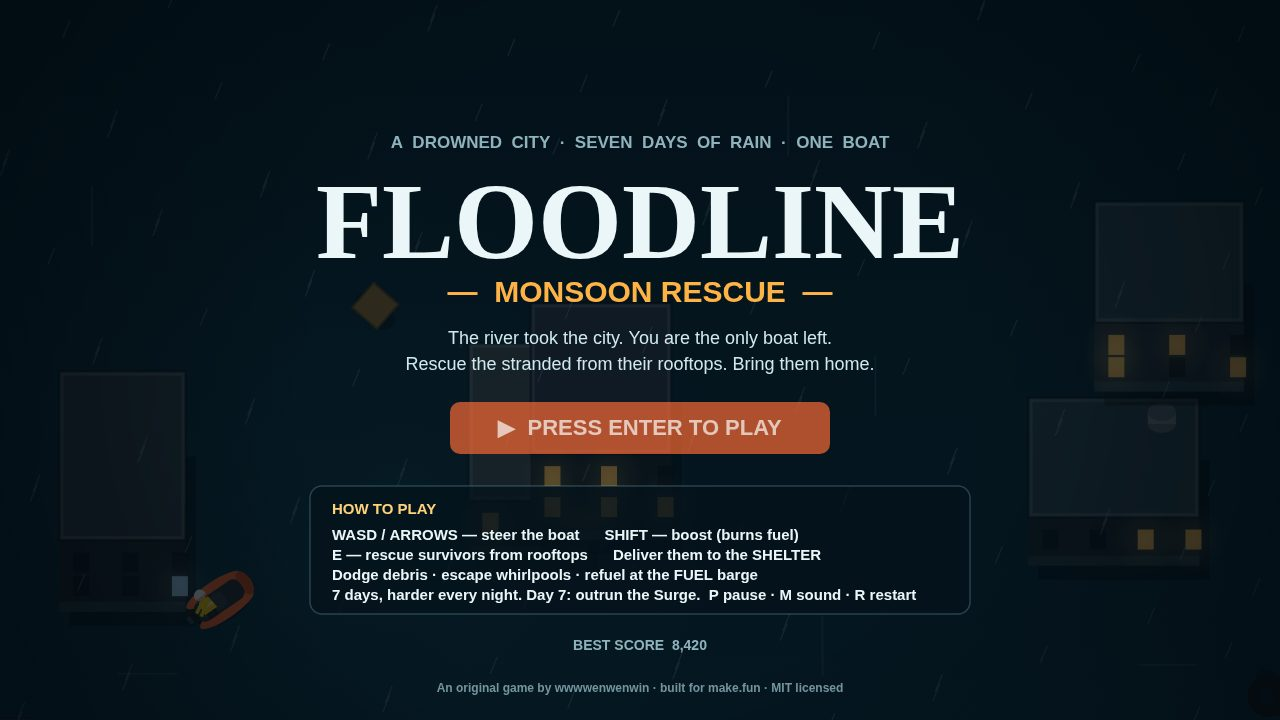
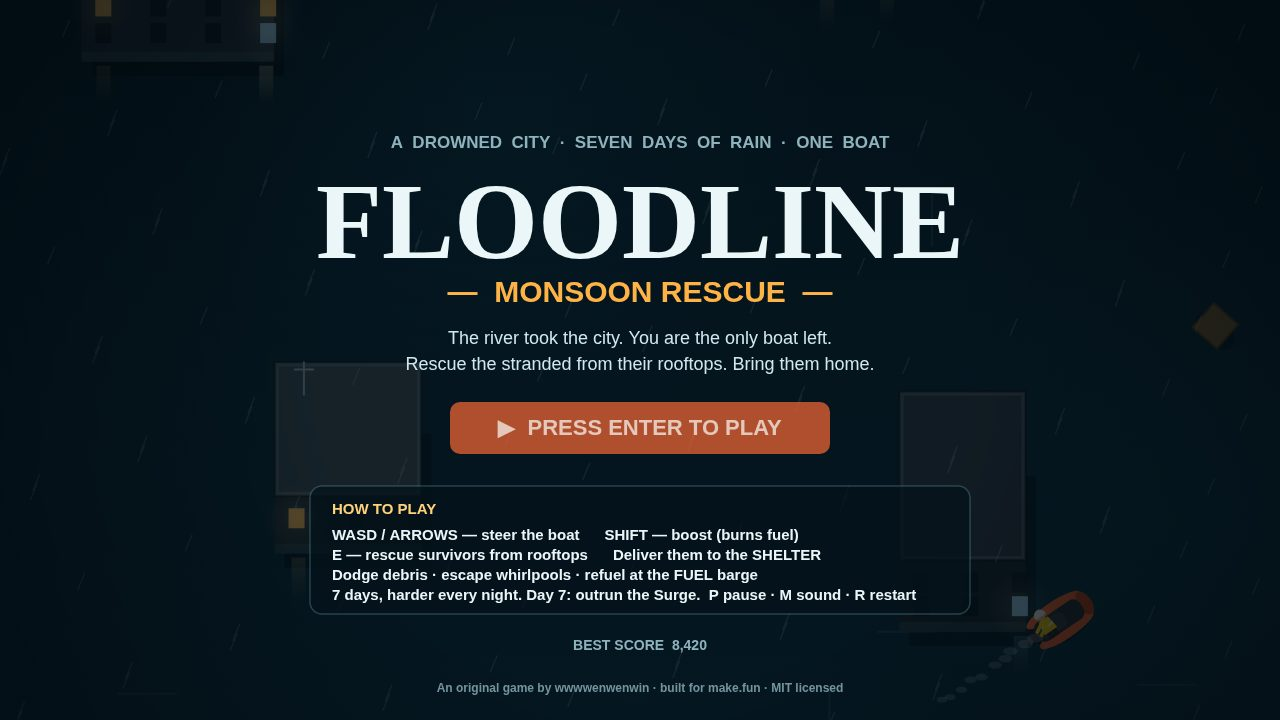
V2 polish: richer cover (fuel barge, forked lightning, 4th survivor, reflections), menacing Surge boss shot, upgrade shot replaces victory, tighter upgrade cards

diff --git a/game/src/shots.js b/game/src/shots.js
@@ -4,7 +4,7 @@
 // shots.json documents the same four shots. Physics is frozen for staged
 // shots (see main.js) while rain, light and particles keep animating.
 
-import { DAYS, VIEW } from './config.js';
+import { DAYS, UPGRADES, VIEW } from './config.js';
 import { generateWorld } from './world.js';
 import { makeBoat } from './boat.js';
 import { spawnSurvivors } from './survivors.js';
@@ -98,6 +98,15 @@ function placeBoatNearRoof(state) {
   addRoofSurvivor(state, stageA.x + stageA.w / 2 - 14, stageA.y + stageA.d - stageA.h - 18, '#4ecdc4', true, 0.7);
   addRoofSurvivor(state, stageA.x + stageA.w / 2 + 22, stageA.y + stageA.d - stageA.h - 18, '#ff8fa3', false, 2.4);
   addRoofSurvivor(state, stageB.x + stageB.w / 2, stageB.y + stageB.d - stageB.h - 18, '#ffd60a', true, 4.1);
+  // A fourth survivor with a flare on the lower building's roof, so the
+  // bottom-centre of the frame has people too.
+  addRoofSurvivor(state, stageC.x + stageC.w / 2 - 6, stageC.y + stageC.d - stageC.h - 18, '#ff6b35', true, 1.9);
+
+  // The fuel barge sails into the top-left of the frame: the cover then
+  // shows the game's whole economy — rescue, shelter AND refuel — at a
+  // glance. (Staging only; the real barge stays on the west side.)
+  state.world.fuelBarge.x = bx - 356;
+  state.world.fuelBarge.y = by - 270;
 
   // Action around the boat: drifting debris in the open water and a
   // whirlpool low-left, clear of the buildings and the minimap.
@@ -164,15 +173,34 @@ export function stageShot(state, shot, seed) {
   if (shot === 'start') {
     baseDayState(state, 1, seed);
     state.screen = 'title';
-    // The boat sits visible at the lower left, clear of the menu cards.
+    // The boat sits visible in the clear water at the lower right, clear of
+    // the menu cards, with a wake trailing behind it.
     state.boat.x = state.world.spawn.x;
     state.boat.y = state.world.spawn.y;
     state.boat.angle = -0.6;
-    state.camera.x = state.boat.x - 220;
-    state.camera.y = state.boat.y - 600;
+    state.camera.x = state.boat.x - 1060;
+    state.camera.y = state.boat.y - 620;
+    seedWake(state, 10);
     state.bestScore = 8420;
+  } else if (shot === 'upgrade') {
+    // The between-days choice: three upgrade cards over the flooded city.
+    // This is the shot that proves the game's depth — the player picks one
+    // upgrade that changes the next day, not just steering a boat.
+    baseDayState(state, 4, seed);
+    state.screen = 'upgrade';
+    state.score = 6420;
+    state.lastDayBonus = 740;
+    state.upgradeChoices = [UPGRADES[0], UPGRADES[1], UPGRADES[4]];
+    state.boat.hull = 82;
+    state.boat.maxHull = 100;
+    state.camera.x = state.boat.x - VIEW.W / 2;
+    state.camera.y = state.boat.y - VIEW.H / 2;
   } else if (shot === 'play') {
     baseDayState(state, 3, seed);
+    // The cover is the storm at its most dramatic: heavier rain than Day 3
+    // normally gets (a staging-only copy of the day config; the real Day 3
+    // is untouched).
+    state.dayCfg = { ...DAYS[2], rain: 0.85 };
     state.screen = 'play';
     state.score = 4850;
     state.dayDelivered = 4;
@@ -186,10 +214,15 @@ export function stageShot(state, shot, seed) {
     state.holdFlash = true;  // hold a lightning glow in the sky
     state.lightning.flash = 0.4;
     placeBoatNearRoof(state);
-    // Bolt lands in the open water left of the boat, clear of the roofs.
+    // Bolt lands in the open water left of the boat, clear of the roofs,
+    // with a fork branching off toward the fuel barge.
+    const boltX = state.boat.x - 226;
+    const boltY = state.boat.y - 139;
+    const segments = boltSegments(boltX, boltY);
     state.lightning.bolt = {
-      x: state.boat.x - 226, y: state.boat.y - 139, life: 99,
-      segments: boltSegments(state.boat.x - 226, state.boat.y - 139),
+      x: boltX, y: boltY, life: 99,
+      segments,
+      branches: [boltBranch(segments[2])],
     };
   } else if (shot === 'boss') {
     baseDayState(state, 7, seed);
@@ -215,10 +248,41 @@ export function stageShot(state, shot, seed) {
     state.boat.angle = 0.12;
     state.boat.vx = 0;
     state.boat.vy = 0;
+    // Guarantee a rescue is in reach: survivor spawns are random, so the
+    // "PRESS E TO RESCUE" prompt otherwise comes and goes between captures.
+    // Put one survivor on the roof nearest the boat.
+    let nearest = null;
+    let nearestD = Infinity;
+    for (const spot of state.world.roofSpots) {
+      const d = Math.hypot(spot.x - state.boat.x, spot.y - state.boat.y);
+      if (d < nearestD) { nearestD = d; nearest = spot; }
+    }
+    if (nearest && nearestD < 150) {
+      addRoofSurvivor(state, nearest.x, nearest.y, '#ff8fa3', false, 1.3);
+    }
     state.surge.active = true;
     state.surge.x = state.camera.x + 150;
     state.surge.speed = 0; // hold the wall in frame for the photo
     seedWake(state, 16);
+
+    // Fill the empty upper-middle of the frame: one more half-drowned block
+    // with people on its roof, directly in the Surge's path. Coordinates
+    // worked out against the Day 7 / seed 20261118 city: clear of the
+    // warning banner above and the rooftops below.
+    const stageD = makeStagedBuilding(state.camera.x + 480, state.camera.y + 200, 180, 140, 60, 53);
+    state.world.buildings.push(stageD);
+    addRoofSurvivor(state, stageD.x + stageD.w / 2 - 14, stageD.y + stageD.d - stageD.h - 18, '#ffd60a', true, 0.9);
+    addRoofSurvivor(state, stageD.x + stageD.w / 2 + 16, stageD.y + stageD.d - stageD.h - 18, '#4ecdc4', false, 3.0);
+
+    // Wreckage tumbling ahead of the wall: the Surge throws debris before it.
+    const kinds = ['log', 'crate', 'barrel', 'tyre'];
+    [[230, 180], [300, 300], [240, 420], [320, 520], [260, 620], [330, 240]]
+      .forEach(([sx, sy], i) => {
+        state.debris.push({
+          x: state.camera.x + sx, y: state.camera.y + sy, vx: 0, vy: 0,
+          angle: i * 1.1, spin: 0.3, size: 13 + (i % 3) * 3, kind: kinds[i % kinds.length],
+        });
+      });
   } else if (shot === 'end') {
     baseDayState(state, 7, seed);
     state.screen = 'victory';
@@ -239,6 +303,21 @@ function boltSegments(x, y) {
     cy += 28 + rng() * 30;
     cx += (rng() - 0.5) * 70;
     pts.push({ x: cx, y: Math.min(cy, y) });
+  }
+  return pts;
+}
+
+// A fork off a bolt's mid-point: three short segments reaching down-left,
+// so the cover's lightning reads as a branching strike, not a single line.
+function boltBranch(fork) {
+  const rng = makeRng(41);
+  const pts = [{ x: fork.x, y: fork.y }];
+  let cx = fork.x;
+  let cy = fork.y;
+  for (let i = 0; i < 3; i++) {
+    cy += 30 + rng() * 22;
+    cx -= 26 + rng() * 30;
+    pts.push({ x: cx, y: cy });
   }
   return pts;
 }

diff --git a/game/src/render.js b/game/src/render.js
@@ -480,12 +480,13 @@ function drawSurge(ctx, state) {
   const y0 = cam.y - 60;
   const y1 = cam.y + VIEW.H + 60;
   // Drowned ground behind the wall.
-  ctx.fillStyle = 'rgba(4, 20, 28, 0.55)';
+  ctx.fillStyle = 'rgba(2, 14, 20, 0.72)';
   ctx.fillRect(cam.x - 60, y0, x - cam.x + 60, y1 - y0);
   // The wall itself: a towering curl of water.
   const g = ctx.createLinearGradient(x - 200, 0, x + 40, 0);
-  g.addColorStop(0, 'rgba(6, 40, 54, 0.95)');
-  g.addColorStop(0.7, 'rgba(16, 78, 100, 0.98)');
+  g.addColorStop(0, 'rgba(3, 22, 32, 0.97)');
+  g.addColorStop(0.55, 'rgba(8, 48, 66, 0.98)');
+  g.addColorStop(0.8, 'rgba(16, 78, 100, 0.98)');
   g.addColorStop(1, 'rgba(210, 240, 248, 0.98)');
   ctx.fillStyle = g;
   ctx.beginPath();
@@ -498,6 +499,20 @@ function drawSurge(ctx, state) {
   ctx.lineTo(x - 200, y1);
   ctx.closePath();
   ctx.fill();
+  // Turbulence inside the wall: churning streaks rolling down its face.
+  ctx.save();
+  ctx.lineWidth = 5;
+  for (const [off, alpha, freq, speed] of [[-60, 0.20, 0.03, 1.0], [-115, 0.14, 0.045, 1.6], [-165, 0.10, 0.025, 0.7]]) {
+    ctx.strokeStyle = `rgba(150, 215, 230, ${alpha})`;
+    ctx.beginPath();
+    for (let y = y0; y <= y1; y += 30) {
+      const wob = Math.sin(y * freq + surge.crestPhase * speed) * 22;
+      if (y === y0) ctx.moveTo(x + off + wob, y);
+      else ctx.lineTo(x + off + wob, y);
+    }
+    ctx.stroke();
+  }
+  ctx.restore();
   // Foam crest.
   ctx.strokeStyle = 'rgba(230, 250, 255, 0.95)';
   ctx.lineWidth = 10;
@@ -518,9 +533,9 @@ function drawSurge(ctx, state) {
   }
   ctx.stroke();
   // Spray ahead of the wall.
-  for (let i = 0; i < 30; i++) {
+  for (let i = 0; i < 44; i++) {
     const sy = y0 + ((i * 197 + state.time * 90) % (y1 - y0));
-    const sx = x + 30 + ((i * 61) % 90);
+    const sx = x + 30 + ((i * 61) % 110);
     ctx.fillStyle = `rgba(220, 245, 252, ${0.25 + (i % 3) * 0.12})`;
     ctx.beginPath();
     ctx.arc(sx, sy, 2 + (i % 4), 0, Math.PI * 2);
@@ -697,6 +712,24 @@ function drawLights(ctx, state) {
       ctx.fillRect(wx - 34, wy - 34, 68, 68);
     }
   }
+  // Shimmering reflections of lit windows on the water below each wall:
+  // short vertical streaks that wobble with the flood, so the water reads
+  // as a living surface instead of flat dark paint.
+  for (const b of state.world.buildings) {
+    if (b.x < state.camera.x - 220 || b.x > state.camera.x + VIEW.W + 40) continue;
+    for (const win of b.windows) {
+      if (!win.lit) continue;
+      const wx = b.x + win.cx + 8;
+      const top = b.y + b.d + 4;
+      const len = 42 + Math.sin(state.time * 1.7 + wx * 0.05) * 7;
+      const wob = Math.sin(state.time * 2.3 + wx * 0.11) * 3;
+      const sg = ctx.createLinearGradient(0, top, 0, top + len);
+      sg.addColorStop(0, win.warm ? 'rgba(255, 190, 90, 0.20)' : 'rgba(170, 225, 255, 0.16)');
+      sg.addColorStop(1, 'rgba(255, 190, 90, 0)');
+      ctx.fillStyle = sg;
+      ctx.fillRect(wx - 7 + wob, top, 14, len);
+    }
+  }
   ctx.restore();
 }
 
@@ -769,6 +802,23 @@ function drawLightning(ctx, state) {
     ctx.strokeStyle = 'rgba(255,255,255,0.95)';
     ctx.lineWidth = 2;
     ctx.stroke();
+    // Forks branching off the main strike (staged shots only).
+    if (L.bolt.branches) {
+      for (const branch of L.bolt.branches) {
+        ctx.strokeStyle = `rgba(220, 235, 255, ${(L.bolt.life * 2).toFixed(3)})`;
+        ctx.lineWidth = 3;
+        ctx.beginPath();
+        branch.forEach((p, i) => {
+          const s = worldToScreen(state, p.x, p.y);
+          if (i === 0) ctx.moveTo(s.x, s.y);
+          else ctx.lineTo(s.x, s.y);
+        });
+        ctx.stroke();
+        ctx.strokeStyle = 'rgba(255,255,255,0.85)';
+        ctx.lineWidth = 1;
+        ctx.stroke();
+      }
+    }
     ctx.restore();
   }
 }

diff --git a/game/src/hud.js b/game/src/hud.js
@@ -377,7 +377,7 @@ export function drawUpgrade(ctx, state) {
 
   const cards = state.upgradeChoices;
   const cw = 300;
-  const ch = 300;
+  const ch = 250;
   const gap = 28;
   const totalW = cards.length * cw + (cards.length - 1) * gap;
   const x0 = (VIEW.W - totalW) / 2;
@@ -418,8 +418,8 @@ export function drawUpgrade(ctx, state) {
 
   ctx.fillStyle = '#8fb3bd';
   ctx.font = `600 15px ${FONT}`;
-  ctx.fillText('Click a card or press 1 / 2 / 3', VIEW.W / 2, 540);
-  ctx.fillText(`Next: DAY ${state.day} — ${DAYS[state.day - 1].name} · quota ${DAYS[state.day - 1].quota}`, VIEW.W / 2, 566);
+  ctx.fillText('Click a card or press 1 / 2 / 3', VIEW.W / 2, 492);
+  ctx.fillText(`Next: DAY ${state.day} — ${DAYS[state.day - 1].name} · quota ${DAYS[state.day - 1].quota}`, VIEW.W / 2, 518);
 }
 
 // --- Game over / victory ------------------------------------------------------------

diff --git a/README.md b/README.md
@@ -23,7 +23,7 @@ python3 -m http.server 8080 --directory game
 ```
 
 Controls: WASD / arrows steer (or hold the mouse), SHIFT boost, E rescue,
-P pause, M sound, R restart. Screenshots are staged with `?shot=start|play|boss|end&seed=N`
+P pause, M sound, R restart. Screenshots are staged with `?shot=start|play|boss|upgrade&seed=N`
 (see `shots.json`) — real renders of the game's own code.
 
 ---
